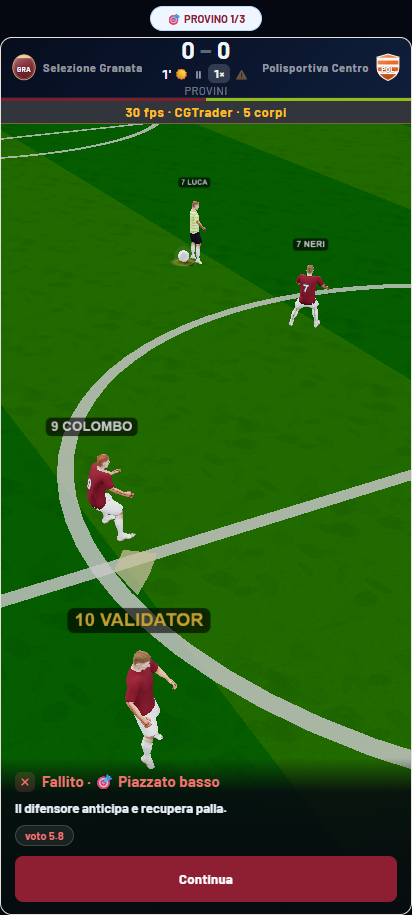
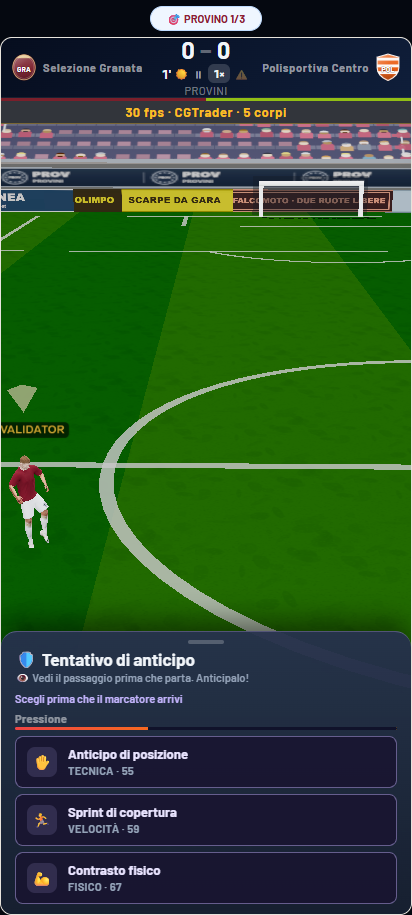
test: registra gi32 success con GLB nel banco difesa

diff --git a/reports/codex/2026-10-02-banco-deterministico.md b/reports/codex/2026-10-02-banco-deterministico.md
@@ -55,6 +55,11 @@ Le due ripetizioni procedurali partono con il pallone in posizioni molto diverse
 
 ## B. Europeo del seme 6
 
+### Caso GLB aggiunto il 3 ottobre: gi32 success
+
+Comando: `$env:CPM_SCENES='32'; $env:CPM_MODE='1'; $env:CPM_OUTCOME='success'; $env:CPM_REPEAT='1'; $env:CPM_SETTLE_MODE='fixed-45-frames'; node tests/codex/banco-difesa-3d.mjs`. Esito **valido**: `ActionResolved` registra gi32, «Anticipo di posizione», `ok:true`; risoluzione dopo 45 fotogrammi di `hl_choose`, 6 PNG. Con corpi GLB accesi, `__CPM_FRAME480` conta 111 letture, eroe fuori quadro 10/111 e pallone fuori 53/111 (prime 12: 12/12). La foto `reports/codex/banco-difesa-3d/gi32-success-glb-r0-01-apertura.png` mostra l'eroe ma non il pallone; nelle foto 04 e 06 appare già il messaggio di esito «Entrata pulita!» e nella 06 il pallone è visibile. Le foto campionate non mostrano l'istante dell'anticipo: il gesto al contatto resta **non verificato**. I numeri di fuori quadro sono del testimone; una segnalazione 001/002 al giocatore resta ipotesi da verificare con ripresa continua. Il caso gi32 fail GLB resta aperto.
+
+
 La sonda `tests/codex/banco-europeo-181.mjs` riprende il banco carriere esterno con `__CPM_SIM_NAT=1`, forza il seme 6, registra i passi fra S8/W19 e W25 e conserva un checkpoint a fine stagione. Il primo avvio è stato interrotto dopo sei stagioni per liberare memoria; la seconda esecuzione dalla stagione 1 è arrivata oltre W24 senza blocco. Dal suo checkpoint S8/W1 sono state poi eseguite due prove appaiate con lo stesso salvataggio: una normale e una con `CPM_RED181=1`. La sonda non azzera il torneo quando compare `blocked:`: in tal caso avrebbe salvato il blocco come esito.
 
 | Braccio appaiato | Flag letto in pagina | Passi del banco | Prima fase `group` | Stato a W24 | `blocked:euroMondiale` |
